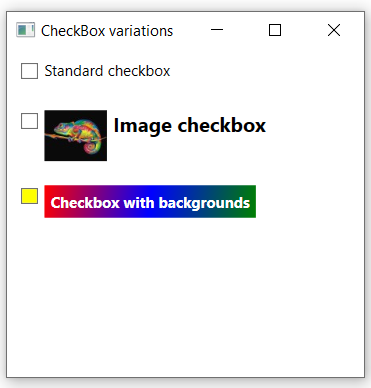
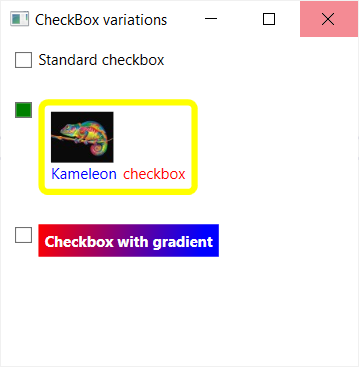
alter exercise 9 of chapter 2

Changed region(s): [[0.0, 0.0, 1.0, 1.0], [0.0613, 0.5995, 0.6128, 0.7193]]

diff --git a/Chapter2_WPF_Controls/Exercise9.Tests/MainWindowTests.cs b/Chapter2_WPF_Controls/Exercise9.Tests/MainWindowTests.cs
@@ -18,7 +18,7 @@ namespace Exercise9.Tests
     {
         private TestWindow<MainWindow> _window;
         private CheckBox _simpleCheckBox;
-        private CheckBox _imageCheckBox;
+        private CheckBox _kameleonCheckBox;
         private CheckBox _gradientCheckBox;
 
         [OneTimeSetUp]
@@ -38,7 +38,7 @@ namespace Exercise9.Tests
             }
             if (allCheckBoxes.Count >= 2)
             {
-                _imageCheckBox = allCheckBoxes.ElementAt(1);
+                _kameleonCheckBox = allCheckBoxes.ElementAt(1);
             }
             if (allCheckBoxes.Count >= 3)
             {
@@ -71,16 +71,40 @@ namespace Exercise9.Tests
             Assert.That(_simpleCheckBox.Content, Is.Not.Empty, () => "The content of first checkbox (on the top) should not be empty.");
         }
 
-        [MonitoredTest("Should have a checkbox with an image and text in the middle"), Order(3)]
-        public void _3_ShouldHaveAnImageCheckBoxInTheMiddle()
+        [MonitoredTest("Should have a kameleon checkbox in the middle"), Order(3)]
+        public void _3_ShouldHaveAKameleonCheckBoxInTheMiddle()
         {
-            Assert.That(_imageCheckBox, Is.Not.Null, () => "The second (middle) checkbox could not be found.");
-            Assert.That(_imageCheckBox.Content, Is.TypeOf<StackPanel>(),
+            Assert.That(_kameleonCheckBox, Is.Not.Null, () => "The second (middle) checkbox could not be found.");
+
+            Assert.That(_kameleonCheckBox.Background, Is.Not.Null, "The checkbox must have a background set.");
+            Assert.That(_kameleonCheckBox.Background, Is.TypeOf<SolidColorBrush>(), "The background of the checkbox must be a 'SolidColorBrush'.");
+
+            Assert.That(_kameleonCheckBox.Content, Is.TypeOf<Border>(),
+                "The content of the middle checkbox should be a 'Border' so that a rounded border can be displayed around the inner controls.");
+
+            var border = (Border)_kameleonCheckBox.Content;
+            bool borderThicknessIsEqualOnAllSides = IsEqualThicknessOnAllSides(border.BorderThickness, out double borderSize);
+            Assert.That(borderSize, Is.GreaterThan(0.0), "The border must have a thickness.");
+            Assert.That(borderThicknessIsEqualOnAllSides, Is.True, "The border thickness should be the same on all sides.");
+
+            Assert.That(border.BorderBrush, Is.Not.Null, "The border must have a brush set.");
+            Assert.That(border.BorderBrush, Is.TypeOf<SolidColorBrush>(), "The border brush must be a 'SolidColorBrush'.");
+
+            bool borderPaddingIsEqualOnAllSides = IsEqualThicknessOnAllSides(border.Padding, out double paddingSize);
+            Assert.That(paddingSize, Is.GreaterThan(0.0), "The border must have some padding.");
+            Assert.That(borderPaddingIsEqualOnAllSides, Is.True, "The border must have the same padding on each side.");
+
+            Assert.That(border.CornerRadius.TopLeft, Is.GreaterThan(0.0), "The border must have a corner radius.");
+            Assert.That(border.CornerRadius.TopRight, Is.GreaterThan(0.0), "The border must have a corner radius.");
+            Assert.That(border.CornerRadius.BottomLeft, Is.GreaterThan(0.0), "The border must have a corner radius.");
+            Assert.That(border.CornerRadius.BottomRight, Is.GreaterThan(0.0), "The border must have a corner radius.");
+
+            Assert.That(border.Child, Is.TypeOf<StackPanel>(),
                 () =>
-                    "The content of the middle checkbox should be a 'StackPanel' so that you can position the image on the left of the text.");
-            var contentStackPanel = (StackPanel)_imageCheckBox.Content;
-            Assert.That(contentStackPanel.Orientation, Is.EqualTo(Orientation.Horizontal),
-                () => "The 'StackPanel' of the middle checkbox should have a horizontal 'Orientation'.");
+                    "The content (child) of the border should be a 'StackPanel' so that you can position the image on the left of the text.");
+            var contentStackPanel = (StackPanel)border.Child;
+            Assert.That(contentStackPanel.Orientation, Is.EqualTo(Orientation.Vertical),
+                () => "The 'StackPanel' of the middle checkbox should have a vertical 'Orientation'.");
             Assert.That(contentStackPanel.Children.Count, Is.EqualTo(2),
                 () => "The 'StackPanel' of the middle checkbox should have 2 child controls.");
             var imageControl = contentStackPanel.Children[0] as Image;
@@ -99,33 +123,46 @@ namespace Exercise9.Tests
             Assert.That(bitmapSource.ToString(), Contains.Substring("kameleon.jpg").IgnoreCase,
                 () => "The 'Image' in the middle checkbox should have its 'Source' set to 'images\\kameleon.jpg'.");
 
-            var textBlockControl = contentStackPanel.Children[1] as TextBlock;
-            Assert.That(textBlockControl, Is.Not.Null,
-                () =>
-                    "The second child control of the 'StackPanel' of the middle checkbox should be a 'TextBlock' control.");
-            Assert.That(textBlockControl.FontSize, Is.GreaterThanOrEqualTo(14),
-                () => "The 'FontSize' in the 'TextBlock' in the middle checkbox should be bigger (e.g. 16).");
-            Assert.That(textBlockControl.FontWeight.ToString(), Is.EqualTo("Bold").IgnoreCase,
-                () => "The 'FontWeight' in the 'TextBlock' in the middle checkbox should be bold.");
+            var innerStackPanel = contentStackPanel.Children[1] as StackPanel;
+            Assert.That(innerStackPanel, Is.Not.Null,
+                "The second child control of the 'StackPanel' of the middle checkbox should be another 'StackPanel' control.");
+            Assert.That(innerStackPanel.Orientation, Is.EqualTo(Orientation.Horizontal),
+                "The inner 'StackPanel' that contains the text, should have a horizontal 'Orientation'.");
+
+            Assert.That(innerStackPanel.Children.OfType<TextBlock>().Count(), Is.EqualTo(2),
+                "The inner 'StackPanel' that contains the text, should have exactly 2 'TextBlock' elements.");
+
+            var leftTextBlock = (TextBlock)innerStackPanel.Children[0];
+            Assert.That(leftTextBlock.Foreground, Is.Not.Null, "The left 'TextBlock' should have colored text.");
+            Assert.That(leftTextBlock.Text, Is.Not.Null.And.Not.Empty, "The left 'TextBlock' should not be empty.");
+
+            var rightTextBlock = (TextBlock)innerStackPanel.Children[1];
+            Assert.That(rightTextBlock.Foreground, Is.Not.Null, "The right 'TextBlock' should have colored text.");
+            Assert.That(rightTextBlock.Text, Is.Not.Null.And.Not.Empty, "The right 'TextBlock' should not be empty.");
+
+            double padRight = Math.Max(leftTextBlock.Padding.Right, leftTextBlock.Margin.Right);
+            double padLeft = Math.Max(rightTextBlock.Padding.Left, rightTextBlock.Margin.Left);
+            Assert.That(padLeft > 0 || padRight > 0, Is.True, "There must be some space between the 2 'TextBlock' elements.");
         }
 
         [MonitoredTest("Should have a checkbox on the bottom with backgrounds"), Order(4)]
         public void _4_ShouldHaveACheckBoxWithBackgroundsAtTheBottom()
         {
-            Assert.That(_gradientCheckBox, Is.Not.Null, () => "The third (bottom) checkbox could not be found.");
-           
-            Assert.That(_gradientCheckBox.Background.ToString(), Contains.Substring("FFFF00").IgnoreCase, () => "The color of the background of the bottom checkbox should be 'Yellow'.");
+            Assert.That(_gradientCheckBox, Is.Not.Null, "The third (bottom) checkbox could not be found.");
 
             var textBlockControl = _gradientCheckBox.Content as TextBlock;
-            Assert.That(textBlockControl, Is.Not.Null, () => "The content of the bottom checkbox should be a TextBlock (So that a gradient background can be set).");
+            Assert.That(textBlockControl, Is.Not.Null,
+                "The content of the bottom checkbox should be a TextBlock (So that a gradient background can be set).");
 
-            Assert.That(textBlockControl.Foreground.ToString(), Contains.Substring("FFFFFF").IgnoreCase, () => "The color of the text ('ForeColor') of the bottom checkbox should be 'White'.");
-            Assert.That(textBlockControl.FontWeight.ToString(), Is.EqualTo("Bold").IgnoreCase, () => "The 'FontWeight' of the text ('ForeColor') of the bottom checkbox should be bold.");
+            Assert.That(textBlockControl.Foreground.ToString(), Contains.Substring("FFFFFF").IgnoreCase,
+                "The color of the text ('ForeColor') of the bottom checkbox should be 'White'.");
+            Assert.That(textBlockControl.FontWeight.ToString(), Is.EqualTo("Bold").IgnoreCase,
+                "The 'FontWeight' of the text ('ForeColor') of the bottom checkbox should be bold.");
 
             var backgroundBrush = textBlockControl.Background as LinearGradientBrush;
             Assert.That(backgroundBrush, Is.Not.Null, () => "The 'Background' property of the TextBlock should be an instance of a 'LinearGradientBrush'.");
-            Assert.That(backgroundBrush.GradientStops.Count, Is.EqualTo(3), () => "The background brush of the TextBlock should have 3 instances of 'GradientStop'. " +
-                                                                                  "There should be a 'GradientStop' for each of the following colors: 'Red', 'Blue', 'Green'.");
+            Assert.That(backgroundBrush.GradientStops.Count, Is.EqualTo(2), () => "The background brush of the TextBlock should have 2 instances of 'GradientStop'. " +
+                                                                                  "There should be a 'GradientStop' for each of the following colors: 'Red', 'Blue'.");
             double expectedOffset = 0.0;
             for (var index = 0; index < backgroundBrush.GradientStops.Count; index++)
             {
@@ -134,8 +171,16 @@ namespace Exercise9.Tests
                 var offset = expectedOffset;
                 Assert.That(gradientStop.Offset, Is.EqualTo(expectedOffset),
                     () => $"The 'GradientStop' at position {gradientStopPosition} should have an 'Offset' of {offset}");
-                expectedOffset += 0.5;
+                expectedOffset += 0.9;
             }
         }
+
+        private bool IsEqualThicknessOnAllSides(Thickness thickness, out double valueOnEachSide)
+        {
+            valueOnEachSide = thickness.Left;
+            if (thickness.Top != valueOnEachSide) return false;
+            if (thickness.Right != valueOnEachSide) return false;
+            if (thickness.Bottom != valueOnEachSide) return false;
+            return true;
+        }
     }
-}

diff --git a/Chapter2_WPF_Controls/README.md b/Chapter2_WPF_Controls/README.md
@@ -122,13 +122,12 @@ The window contains a *Grid* that holds 3 checkboxes in a single cell.
 
 The first *CheckBox* is a standard checkbox.
 
-The second *CheckBox* has a *StackPanel* as content. 
-The *StackPanel* shows an image of a kameleon and some bigger, bold text next to it. 
+The second *CheckBox* has a green background and a *Border* with a *StackPanel* as content. 
+The *StackPanel* shows an image of a kameleon and 2 pieces of texts below it. 
 The image can be found in de *Images* folder of the project.
 
-The *CheckBox* at the bottom has a *Yellow* *Background*. 
-The *Content* of the *CheckBox* is some bold, white colored text with a linear gradient brush as background. 
-The gradient brush should be *Red* on the left, *Blue* in the middle and *Green* at the right.
+The *CheckBox* at the bottom contains some bold, white colored text with a linear gradient brush as background. 
+The gradient brush should be *Red* on the left and should be completely *Blue* at 90% to the right.
 
 Do all of this **purely in XAML**. Do not change MainWindow.xaml.cs.
 
